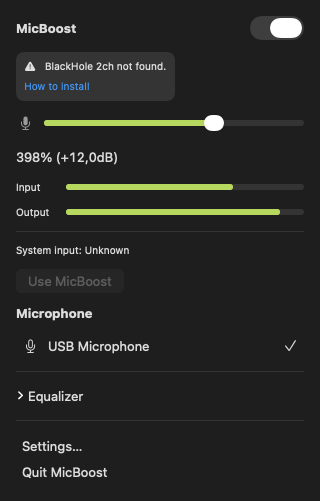
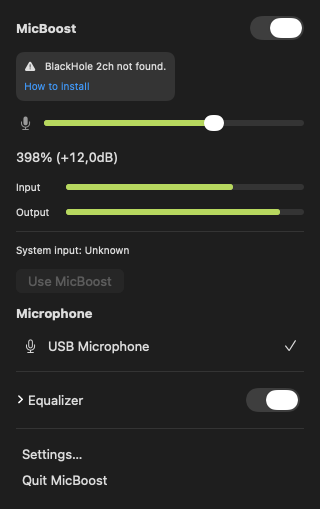
Keep the equalizer switch visible when adjustments collapse

diff --git a/Sources/MicBoostUI/Views.swift b/Sources/MicBoostUI/Views.swift
@@ -112,16 +112,6 @@ import SwiftUI
             Divider()
             DisclosureGroup(isExpanded: $model.expanded) {
                 VStack(alignment: .leading, spacing: 8) {
-                    HStack {
-                        Text(localized("Enable EQ"))
-                        Spacer()
-                        Toggle(localized("Enable EQ"), isOn: $model.controls.eq.enabled)
-                            .labelsHidden()
-                            .accessibilityLabel(localized("Enable EQ"))
-                            .toggleStyle(.switch)
-
-                            .onChange(of: model.controls.eq.enabled) { model.eq() }
-                    }
                     band(
                         "Bass", gain: $model.controls.eq.low.gainDB, frequency: $model.controls.eq.low.frequency,
                         range: EQSettings.lowFrequencyRange)
@@ -140,10 +130,17 @@ import SwiftUI
                     }.buttonStyle(.borderless)
                 }.padding(.top, 8)
             } label: {
-                Text(localized("Equalizer"))
-                    .frame(maxWidth: .infinity, alignment: .leading)
-                    .contentShape(Rectangle())
-                    .onTapGesture { model.expanded.toggle() }
+                HStack {
+                    Text(localized("Equalizer"))
+                        .frame(maxWidth: .infinity, alignment: .leading)
+                        .contentShape(Rectangle())
+                        .onTapGesture { model.expanded.toggle() }
+                    Toggle(localized("Enable EQ"), isOn: $model.controls.eq.enabled)
+                        .labelsHidden()
+                        .accessibilityLabel(localized("Enable EQ"))
+                        .toggleStyle(.switch)
+                        .onChange(of: model.controls.eq.enabled) { model.eq() }
+                }
             }
             Divider()
             VStack(spacing: 0) {

diff --git a/docs/ui.md b/docs/ui.md
@@ -45,8 +45,8 @@ Conteúdo, de cima para baixo (SwiftUI, `PanelView`):
    - divergência: "Entrada do sistema: <nome>" + botão "Usar MicBoost".
    - com `manageDefaultInput` desligado, a linha só informa a entrada atual, sem tratá-la como divergência; o botão "Usar MicBoost" aparece se a entrada não for o BlackHole.
 5. **Microfone:** lista de fontes elegíveis no estilo das listas de dispositivos da Central de Controle (ícone por transporte, nome, marca de seleção). Selecionar troca a fonte (reconstrução do motor com rampa). Uma fonte persistida que não está conectada aparece como "<nome> (desconectado)".
-6. **Equalizador:** seção expansível (`DisclosureGroup`, recolhida por padrão; o estado de expansão persiste; clicar no título ou no chevron alterna a expansão, e o teclado continua usando o controle nativo), com:
-   - `Toggle` "Ativar EQ" com switch nativo padrão;
+6. **Equalizador:** seção expansível (`DisclosureGroup`, recolhida por padrão; o estado de expansão persiste; clicar no título ou no chevron alterna a expansão, e o teclado continua usando o controle nativo), com switch nativo "Ativar EQ" sempre visível à direita do título, independente da expansão. Alternar o switch não expande nem recolhe os ajustes. Apenas as bandas e ações ficam na área recolhível:
+
    - Graves: slider de ganho (dB) + campo de frequência (Hz);
    - Médios: slider de ganho + campo de frequência + slider "Largura" com o valor de Q mostrado (Q maior = banda mais estreita);
    - Agudos: slider de ganho + campo de frequência;

diff --git a/README.md b/README.md
@@ -57,7 +57,8 @@ Available today:
 - **Gain from −12 to +24 dB**, mute and peak protection; mute and the limiting indicator keep
   the panel layout stable.
 - **3-band EQ** with adjustable bass, parametric mids and treble, bypass and reset. Click its
-  title or disclosure arrow to expand or collapse it; each band has a clear section heading.
+  title or disclosure arrow to expand or collapse the adjustments; the EQ switch stays visible
+  in the header. Each band has a clear section heading.
 
 - **Any Core Audio input**, captured explicitly by UID — the source does not have to be the
   system default input.
